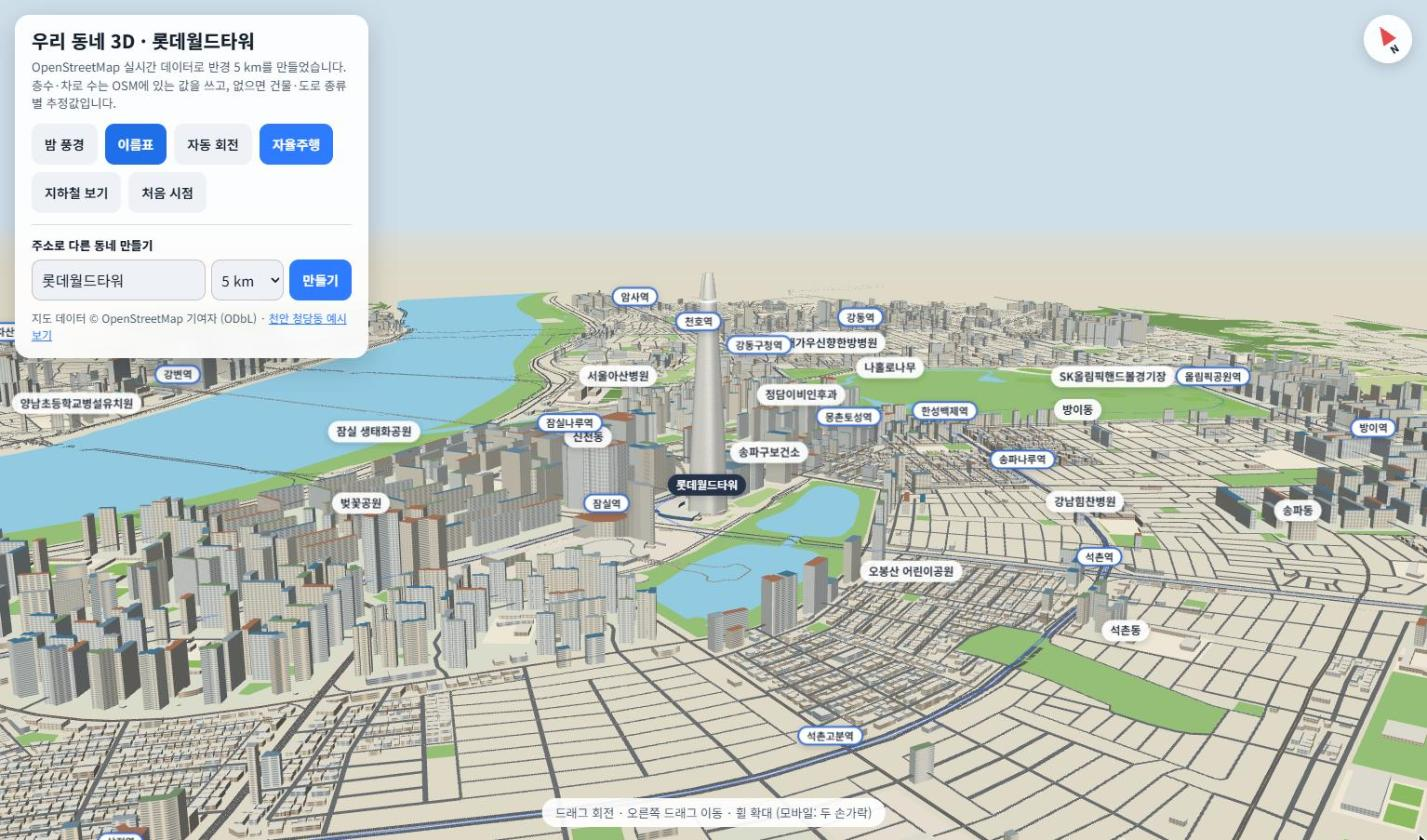
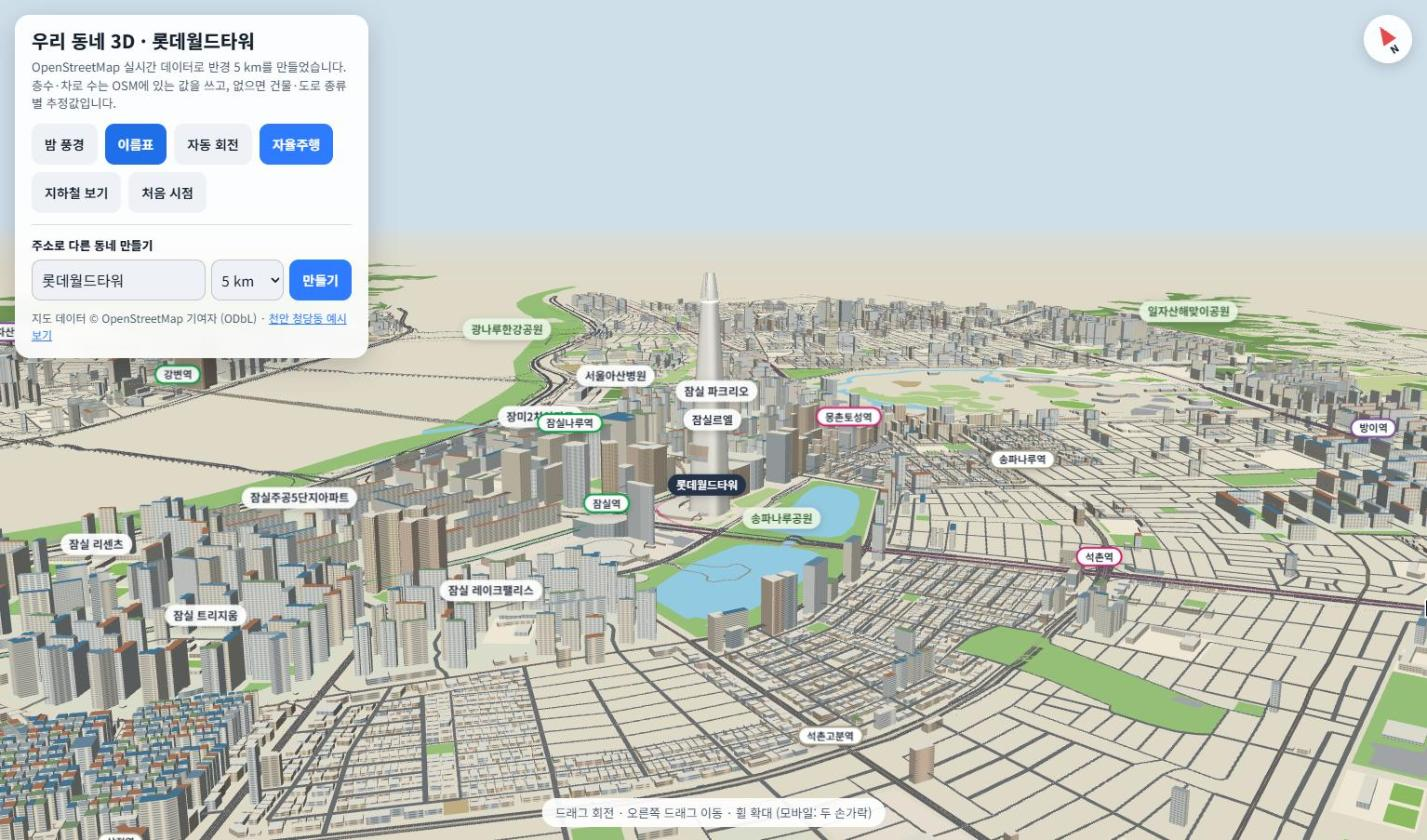
Card text for baked data; overview screenshot from baked data with line colours
Claude-Session: https://claude.ai/code/session_01LRCYcVpw4kv2Q2C1WcPsvk

diff --git a/index.html b/index.html
@@ -816,7 +816,7 @@ function frame(){const raw=Math.min(clock.getDelta(),.05),dt=raw*motion;
   updateDrive(raw);if(!ego.on||ego.view==='free')controls.update();renderer.render(scene,camera);placeLabels();cmp.style.transform=`rotate(${controls.getAzimuthalAngle()}rad)`;
   requestAnimationFrame(frame);}
 if(OSM){document.querySelector('.card h1').textContent='우리 동네 3D · '+(D.place||'검색 위치');
-  document.querySelector('.card p').textContent=`OpenStreetMap 실시간 데이터로 반경 ${RAD/1000} km를 만들었습니다. 층수·차로 수는 OSM에 있는 값을 쓰고, 없으면 건물·도로 종류별 추정값입니다.`+(RAD>5000?' 반경이 커서 큰 건물과 주요 도로만 불러왔습니다.':'');
+  document.querySelector('.card p').textContent=`${D.baked?'미리 받아 둔 OpenStreetMap 데이터('+D.baked.at.slice(0,10)+')로':'OpenStreetMap 실시간 데이터로'} 반경 ${RAD/1000} km를 만들었습니다. 층수·차로 수는 OSM에 있는 값을 쓰고, 없으면 건물·도로 종류별 추정값입니다.`+(RAD>5000?' 반경이 커서 큰 건물과 주요 도로만 불러왔습니다.':'');
   $('credit').innerHTML='지도 데이터 © OpenStreetMap 기여자 (ODbL) · <a href="?preset" style="color:#2f7bff">천안 청당동 예시 보기</a>';$('loadBar').style.width='100%';}
 document.getElementById('load').classList.remove('on');
 window.town3d={D,camera,controls,view,home,setXray,setNight,setView,startRouteAt,ego,HIDE,LMK,RWD,tick(n=1,dt=1/30){for(let i=0;i<n;i++){const m=ego.on?ego.mult:1;simT+=dt*m;updateSignals();npcStep(dt*m);railStep(simT);updateDrive(dt);}if(!ego.on||ego.view==='free')controls.update();renderer.render(scene,camera);placeLabels();},get simT(){return simT}};
